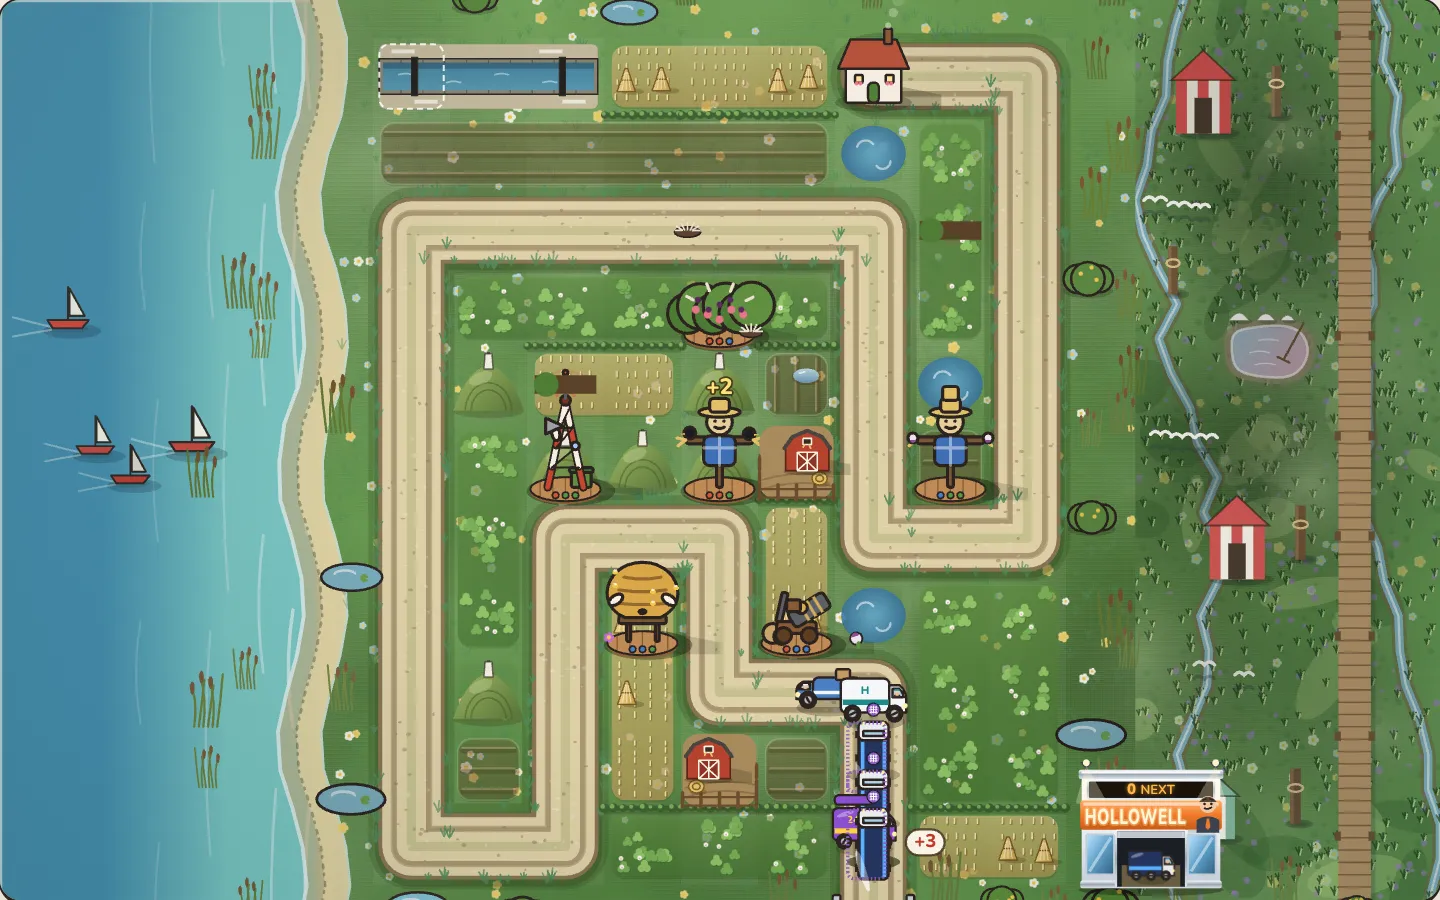
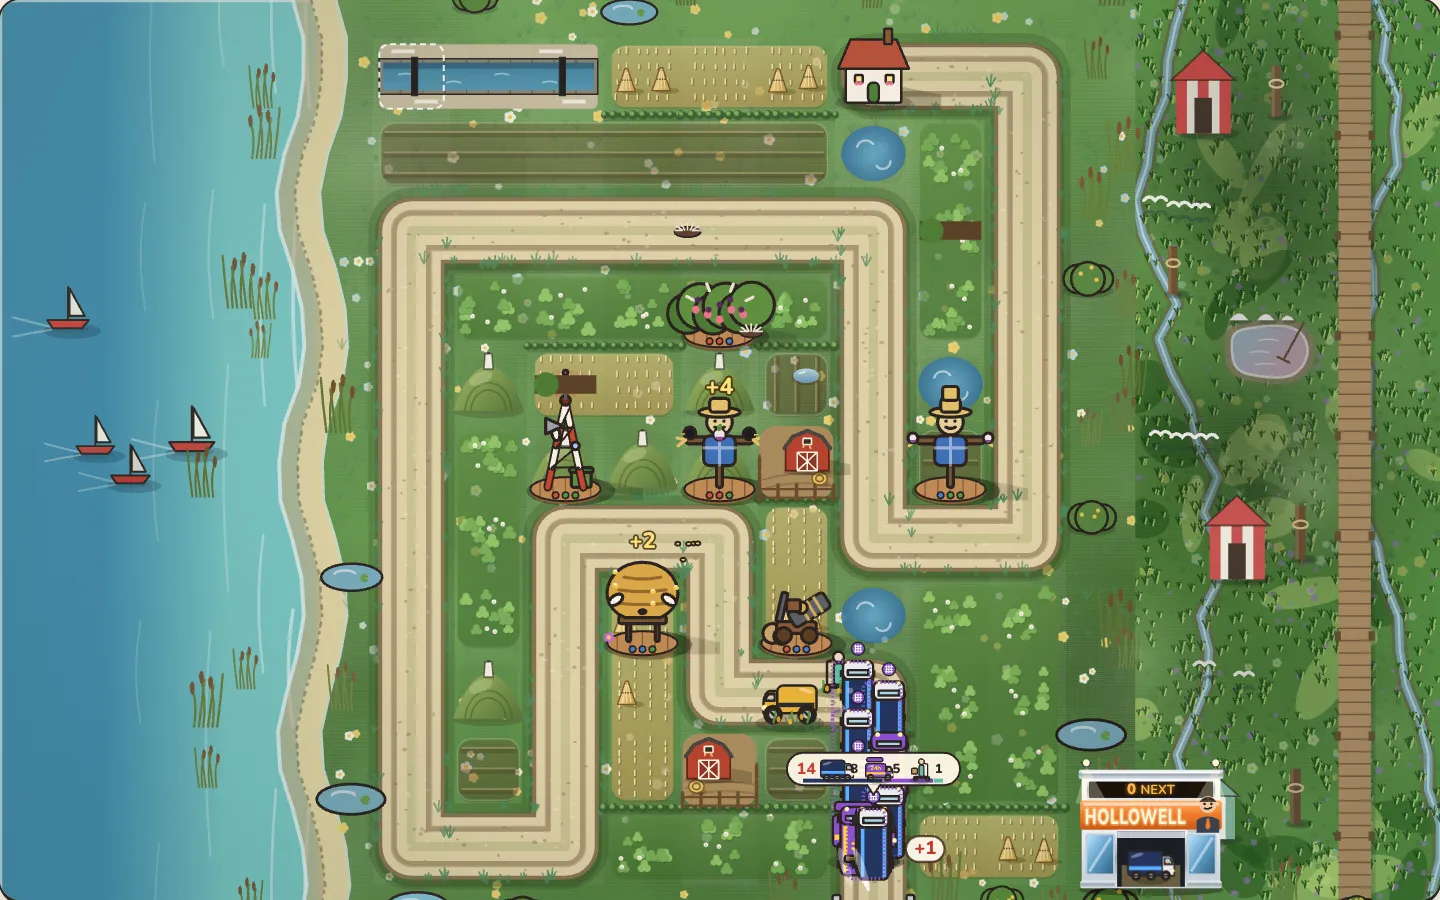
Hedgerow 388 slice 13, done: marsh and meadow margins at the field's saturation, marsh grass denser (local contrast -13%, saturation -5%); key art re-shot
Claude-Session: https://claude.ai/code/session_01SimvMPa3r2MCUbymq1nJMh

diff --git a/games/hedgerow/src/margins.ts b/games/hedgerow/src/margins.ts
@@ -302,13 +302,13 @@ export function paintMarsh(ctx: CanvasRenderingContext2D, r: Rect, s: number, ra
   ctx.beginPath();
   ctx.rect(r.x, r.y, r.w, r.h);
   ctx.clip();
-  ctx.fillStyle = "rgba(104,156,84,0.4)"; // Plan item 370: a living marsh green (was a grey 112,140,104).
+  ctx.fillStyle = "rgba(92,162,64,0.5)"; // Plan items 370, 388: a living marsh green (was a grey 112,140,104), at the field's saturation.
   ctx.fillRect(r.x, r.y, r.w, r.h);
   // Plan item 388: tussocks and wet hollows, darker and lighter clumps, so the marsh has the field's range of value
   // (a flat fill read at half its contrast).
   for (let i = 0; i < (r.w * r.h) / (s * s) * 0.7; i++) {
     const dark = rand() < 0.55;
-    ctx.fillStyle = dark ? "rgba(46,88,40,0.3)" : "rgba(196,222,140,0.32)";
+    ctx.fillStyle = dark ? "rgba(34,86,26,0.5)" : "rgba(210,236,130,0.48)";
     ctx.beginPath();
     ctx.ellipse(r.x + rand() * r.w, r.y + rand() * r.h, s * (0.25 + rand() * 0.45), s * (0.12 + rand() * 0.2), rand() * Math.PI, 0, Math.PI * 2);
     ctx.fill();
@@ -350,7 +350,7 @@ export function paintMarsh(ctx: CanvasRenderingContext2D, r: Rect, s: number, ra
 /** A water meadow: lush grass in strips, cut by a mill race; or a moor: heather, bracken and dry-stone walls. */
 export function paintGround(ctx: CanvasRenderingContext2D, ground: MarginSet["ground"], r: Rect, s: number, rand: () => number): void {
   paintGroundBase(ctx, ground, r, s, rand);
-  if (ground === "marsh" || ground === "meadow" || ground === "green") paintBlades(ctx, r, s);
+  if (ground === "marsh" || ground === "meadow" || ground === "green") paintBlades(ctx, r, s, ground === "marsh" ? 24 : 13);
   paintGroundLight(ctx, r, s);
 }
 
@@ -358,7 +358,7 @@ export function paintGround(ctx: CanvasRenderingContext2D, ground: MarginSet["gr
  * Plan item 388: grass in blades, short dark and sunlit strokes leaning one way, so the margin's grass has the fine
  * grain of the field's crops (a speckle on a flat fill had about three quarters of the field's local contrast).
  */
-function paintBlades(ctx: CanvasRenderingContext2D, r: Rect, s: number): void {
+function paintBlades(ctx: CanvasRenderingContext2D, r: Rect, s: number, density: number): void {
   const rand = seeded(Math.round(r.x * 5 + r.y * 11 + r.w + r.h * 2));
   ctx.save();
   ctx.beginPath();
@@ -366,11 +366,11 @@ function paintBlades(ctx: CanvasRenderingContext2D, r: Rect, s: number): void {
   ctx.clip();
   ctx.lineCap = "round";
   ctx.lineWidth = Math.max(1, s * 0.022);
-  const n = ((r.w * r.h) / (s * s)) * 13;
+  const n = ((r.w * r.h) / (s * s)) * density;
   const tufts: Array<[number, number, number]> = [];
   for (let i = 0; i < n; i++) tufts.push([r.x + rand() * r.w, r.y + rand() * r.h, s * (0.07 + rand() * 0.06)]);
   // Each tuft three blades fanned from one root, dark; then a sunlit blade on its lee side.
-  ctx.strokeStyle = "rgba(30,62,28,0.72)";
+  ctx.strokeStyle = "rgba(24,70,20,0.75)";
   ctx.beginPath();
   for (const [x, y, len] of tufts)
     for (const a of [-0.45, 0, 0.4]) {
@@ -378,7 +378,7 @@ function paintBlades(ctx: CanvasRenderingContext2D, r: Rect, s: number): void {
       ctx.quadraticCurveTo(x + Math.sin(a) * len * 0.4, y - len * 0.6, x + Math.sin(a) * len, y - Math.cos(a) * len);
     }
   ctx.stroke();
-  ctx.strokeStyle = "rgba(226,240,170,0.72)";
+  ctx.strokeStyle = "rgba(222,244,136,0.75)";
   ctx.beginPath();
   for (const [x, y, len] of tufts) {
     ctx.moveTo(x + len * 0.12, y);
@@ -422,7 +422,7 @@ function paintGroundBase(ctx: CanvasRenderingContext2D, ground: MarginSet["groun
   ctx.rect(r.x, r.y, r.w, r.h);
   ctx.clip();
   if (ground === "meadow") {
-    ctx.fillStyle = "rgba(96,150,70,0.3)";
+    ctx.fillStyle = "rgba(86,158,56,0.42)";
     ctx.fillRect(r.x, r.y, r.w, r.h);
     // Buttercups and lady's smock in the long grass.
     for (let i = 0; i < (r.w * r.h) / (s * s) * 16; i++) {

diff --git a/docs/plan/two-week-plan.md b/docs/plan/two-week-plan.md
@@ -3725,7 +3725,7 @@ The items come from fresh-eyes audits on 2026-11-01 and 2026-11-02 (items 25-32:
   - hand-phone, phone-counter, board-scale and quick-game specs pass; shots P (390x844, 375x667) light and dark, before and after.
 - **Size:** 2
 
-## 388. [ ] Hedgerow 2D: the margins painted to the field's standard, not stamps on a flat fill *(lane A, in progress)* *(handed back 2026-11-14 18:35 by lane A, slices 10-12: Saltmarsh's pans are irregular dug pools (ten seeded lobes, a soft solid crust), no longer squared slabs with a dashed rim that read as framed panels; margin grass a third denser with stronger blades. Measured at D with `scripts/hedgerow-388-measure.mjs` (x boxes as lane B's, the canvas's height): local contrast l21 marsh -30% -> -22%, l34 meadow -12% -> -5%, l34 river -29% (water); saturation l21 -20%, l34 meadow -20%, river +8%. Suggested cut, for the next taker to decide: hold land margins to 15% local contrast and judge water margins apart (a river's surface is smoother than plots by nature). Left: l21's marsh (-22%) and both land margins' saturation (-20%). Key art re-shot; margins, field, gatequeue, depot specs pass)* *(handed back 2026-11-14 18:05 by lane B, slices 6-9: grass in fanned tufts and pools of shade and sun on every margin ground; built margin pieces cast a shadow down and right; land pieces kept 0.45 cells off the board's frame (new `hedgerow-margins` e2e: every piece inside the canvas, levels 21, 34, 45); the sea's beach follows the waterline (dry and wet sand, wrack line, foam): the shelf's crests had left the shore's foam stroke and clip on its last crest; reeds only in the shallows past the sand; no land decor on the beach (one pond on l21's sand isn't scatter decor: find its painter); key art re-shot. Measured at D (field box l21 420-790, l34 160-520; margin l21 830-1070, l34 river 870-1080, meadow 10-110): saturation within 15% everywhere (-3%, -13%, -12%); 24 px local contrast -21%, -27%, -21%; global contrast l21 -36%. Left: the contrast acceptance, maybe by judging local rather than global contrast. Earlier,* *(slices 1-5: every margin piece and decor copy carries a seeded look (flip for what grows, a lean of up to 4 degrees for trees, brightness 0.9-1.1, saturation 0.85-1.15), unit-tested in `hedgerow-margins` (no set draws a piece alike more than twice); punts kept 0.45 cells off the board's edge; Saltmarsh's pans feathered into the ground (no framed pictures); the marsh has tussocks and wet hollows; reeds root in the shallows (1.5 cells of shore), boats ride at anchor in their own shadow, clear of the edge. Measured at D: l34 margin saturation -9%, contrast -16%; l21 saturation +11%, contrast -50% (the field box holds paths and plots, so the margin may never match it: decide whether the metric is right). Left: margins' contrast, cast shadows for margin pieces, a tide line on the l21 beach. hedgerow field, depot and gatequeue specs pass (32). Shots `p388b`-`p388e`)*
+## 388. [x] Hedgerow 2D: the margins painted to the field's standard, not stamps on a flat fill *(done 2026-11-14 19:05 lane A, slice 13: the marsh and meadow grounds at the field's saturation (base fills 92,162,64 and 86,158,56, greener tussocks and blades) and the marsh's blades denser (24 a cell, was 13). Measured at D (`scripts/hedgerow-388-measure.mjs`): saturation l21 marsh -5%, l34 meadow -11%, river +8%; 24 px local contrast marsh -13%, meadow -5%. Accept cut (DECISIONS): contrast is judged as local contrast, on land margins; water margins (river -30%) are judged by eye, since open water is smoother than plots by nature, and global contrast counts the field's bright paths. margins, field, gatequeue, depot specs (38) and margins units pass; key art re-shot; shots `e2e/screenshots/hedgerow388` D/P)* *(handed back 2026-11-14 18:35 by lane A, slices 10-12: Saltmarsh's pans are irregular dug pools (ten seeded lobes, a soft solid crust), no longer squared slabs with a dashed rim that read as framed panels; margin grass a third denser with stronger blades. Measured at D with `scripts/hedgerow-388-measure.mjs` (x boxes as lane B's, the canvas's height): local contrast l21 marsh -30% -> -22%, l34 meadow -12% -> -5%, l34 river -29% (water); saturation l21 -20%, l34 meadow -20%, river +8%. Suggested cut, for the next taker to decide: hold land margins to 15% local contrast and judge water margins apart (a river's surface is smoother than plots by nature). Left: l21's marsh (-22%) and both land margins' saturation (-20%). Key art re-shot; margins, field, gatequeue, depot specs pass)* *(handed back 2026-11-14 18:05 by lane B, slices 6-9: grass in fanned tufts and pools of shade and sun on every margin ground; built margin pieces cast a shadow down and right; land pieces kept 0.45 cells off the board's frame (new `hedgerow-margins` e2e: every piece inside the canvas, levels 21, 34, 45); the sea's beach follows the waterline (dry and wet sand, wrack line, foam): the shelf's crests had left the shore's foam stroke and clip on its last crest; reeds only in the shallows past the sand; no land decor on the beach (one pond on l21's sand isn't scatter decor: find its painter); key art re-shot. Measured at D (field box l21 420-790, l34 160-520; margin l21 830-1070, l34 river 870-1080, meadow 10-110): saturation within 15% everywhere (-3%, -13%, -12%); 24 px local contrast -21%, -27%, -21%; global contrast l21 -36%. Left: the contrast acceptance, maybe by judging local rather than global contrast. Earlier,* *(slices 1-5: every margin piece and decor copy carries a seeded look (flip for what grows, a lean of up to 4 degrees for trees, brightness 0.9-1.1, saturation 0.85-1.15), unit-tested in `hedgerow-margins` (no set draws a piece alike more than twice); punts kept 0.45 cells off the board's edge; Saltmarsh's pans feathered into the ground (no framed pictures); the marsh has tussocks and wet hollows; reeds root in the shallows (1.5 cells of shore), boats ride at anchor in their own shadow, clear of the edge. Measured at D: l34 margin saturation -9%, contrast -16%; l21 saturation +11%, contrast -50% (the field box holds paths and plots, so the margin may never match it: decide whether the metric is right). Left: margins' contrast, cast shadows for margin pieces, a tide line on the l21 beach. hedgerow field, depot and gatequeue specs pass (32). Shots `p388b`-`p388e`)*
 - **Why:** items 345 and 370 lifted the field; item 202's margins now read a generation behind it. `plan1114d/hedge-l34-2d-D`: the same lollipop willow stamped about 9 times down the left (20-230 x 110-890), punts at odd angles cut by the board's edge (980-1075 x 355-385, 970-1060 x 650-680, 965-1045 x 860-885); `hedge-l21-2d-D` right margin (800-1080 x 75-890): salt pans drawn as upright framed pictures (885-980 x 100-160, 325-400, 645-705), a creek that starts and ends nowhere (895-960 x 160-500), beach huts with no ground; the left sea flat with identical reed clumps and boats. `hedge-l34-2d-P` (140-390 x 595-650) the same. The margins are about half the D board.
 - **Build:**
   - Ground under every margin: shore with wet sand, foam and a tide line; banks with shoulders and reflections; Saltmarsh's pans flat in the ground with clay rims.

diff --git a/DECISIONS.md b/DECISIONS.md
@@ -294,3 +294,4 @@ Newest at the bottom. At most 5 lines per entry, under 250 lines in all (SPEC 16
 - 2026-11-14 18:30 lane B (planning): the critique's 'Cath reacts at the table' wasn't added: Game.tsx already drives her expression from play (`cathReaction`); the four new items (391-394) are the depot, the coaching plate, the desktop hand and a bug batch.
 - 2026-11-14 18:45 lane B (item 394): the phone difficulty sheet's 'tokens to lose' became 'to lose' (under the LOST LAND label) so its values hold one line at 13 px; widening columns overflowed the row at 360 and the page at 320.
 - 2026-11-14 18:55 lane B (item 394): /games/'s H1 stays 'Cathnivore' (the studio's name, also a game's): renaming it is the owner's call.
+- 2026-11-14 19:05 lane A (item 388): its contrast acceptance is judged as 24 px local contrast on land margins (marsh -13%, meadow -5%); water margins are judged by eye (open water is smoother than plots) and global contrast is dropped (the field box's bright paths dominate it).
